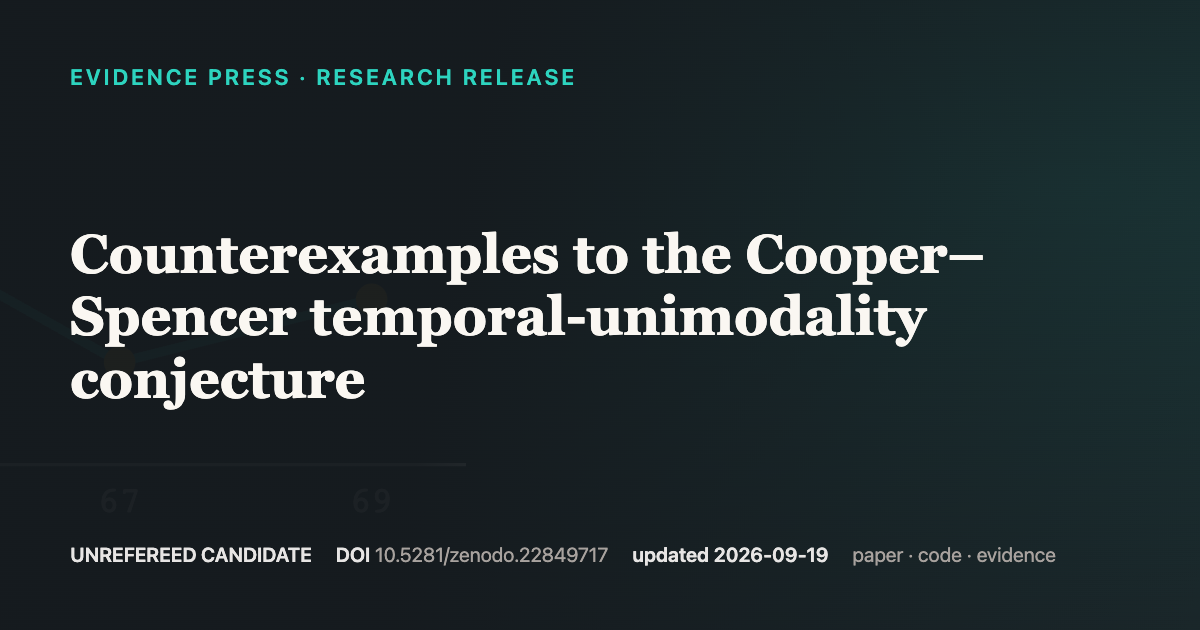
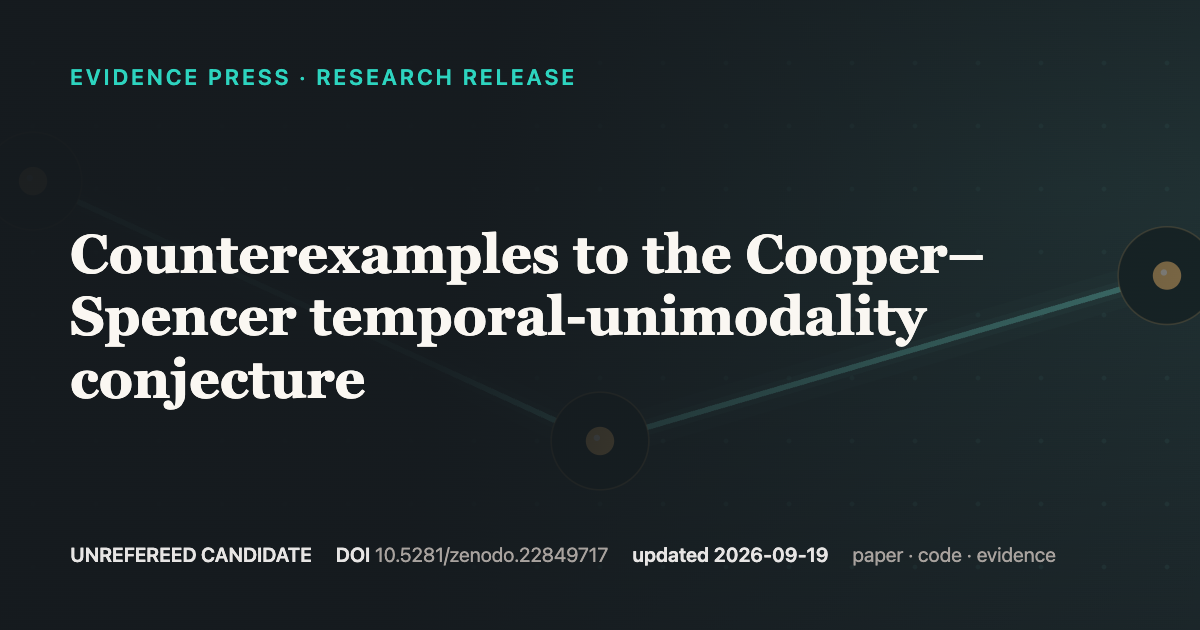
Restore image-led covers and require visual art direction

diff --git a/tools/art-direction.js b/tools/art-direction.js
@@ -1,0 +1,101 @@
+'use strict';
+// Image-led release covers. Coordinates are illustrative, not sampled data.
+// Keep the mathematical statement and assurance labels in HTML, not the banner.
+const circle = (x, y, r, c, opacity = 1) => `<circle cx="${x}" cy="${y}" r="${r}" fill="${c}" opacity="${opacity}"/>`;
+const path = (d, c, width = 2, opacity = 1) => `<path d="${d}" fill="none" stroke="${c}" stroke-width="${width}" opacity="${opacity}" stroke-linecap="round"/>`;
+const ink = '#f4efe6';
+const motifs = {
+  'cooper-spencer-temporal-unimodality': {
+    colors: ['#67c8bc', '#edbd70'],
+    description: 'Three highlighted observations form a fall followed by a rise. The surrounding lattice evokes the random walk; this is an enlarged schematic, not a probability plot.',
+    draw(a, b) {
+      let s = '';
+      for (let row = 0; row < 9; row++) for (let col = 0; col < 27; col++) {
+        const x = 80 + col * 40, y = 40 + row * 40;
+        s += circle(x, y, 1.5, a, .15);
+      }
+      // The three witness times are equally spaced; no intermediate data implied.
+      const d = 'M240 115 L600 280 L960 175';
+      s += path(d, a, 24, .045) + path(d, a, 10, .10) + path(d, a, 3.5);
+      for (const [x, y] of [[240, 115], [600, 280], [960, 175]]) {
+        s += `<circle cx="${x}" cy="${y}" r="31" fill="#172b2c" stroke="${b}" stroke-opacity=".35"/>`;
+        s += circle(x, y, 9, b) + circle(x - 2, y - 2, 2, ink, .9);
+      }
+      return s;
+    }
+  },
+  'quartic-inverse-coefficients': {
+    colors: ['#9eafff', '#e8b46f'],
+    description: 'Two colours of roots alternate along a shared line. Nested arcs distinguish the two ordered families. Root positions are schematic, not computed locations.',
+    draw(a, b) {
+      let s = path('M100 200 H1100', ink, 1, .2);
+      const xs = [180, 300, 420, 540, 660, 780, 900, 1020];
+      for (let i = 0; i < 6; i++) {
+        const up = i % 2 === 0, h = up ? 45 : 355;
+        s += path(`M${xs[i]} 200 C${xs[i]} ${h},${xs[i+2]} ${h},${xs[i+2]} 200`, up ? a : b, 2, .55);
+      }
+      xs.forEach((x, i) => {
+        const c = i % 2 ? b : a;
+        s += `<circle cx="${x}" cy="200" r="25" fill="${c}" opacity=".07"/>`;
+        s += circle(x, 200, 7, c) + path(`M${x} 181 V219`, c, 1.5, .8);
+      });
+      return s;
+    }
+  },
+  'sharp-bilagrangian-smoothness': {
+    colors: ['#76cabc', '#c0a0ed'],
+    description: 'Paired operator chains of increasing length evoke Jordan pencil blocks. This is a schematic of chain structure, not a rendering of a singular variety.',
+    draw(a, b) {
+      let s = '';
+      for (const [cx, n] of [[240, 1], [580, 3], [960, 5]]) {
+        for (let row = 0; row < 2; row++) {
+          const y = row ? 255 : 145, c = row ? b : a;
+          for (let i = 0; i < n; i++) {
+            const x = cx + (i - (n-1)/2) * 48;
+            if (i) s += path(`M${x-37} ${y} H${x-12}`, c, 2, .7);
+            s += circle(x, y, 21, c, .065) + circle(x, y, 6, c);
+            if (!row) s += path(`M${x} 159 V241`, ink, 1, .13);
+          }
+        }
+        s += path(`M${cx-35} 200 H${cx+35}`, ink, 1, .15);
+      }
+      return s;
+    }
+  },
+  'two-class-transposition-profiles': {
+    colors: ['#70bce6', '#ebb676'],
+    description: 'Two interleaved families of shuffle trajectories retain highlighted fixed positions. This is a two-class illustration, not a measured mixing trajectory or a complete permutation.',
+    draw(a, b) {
+      let s = '';
+      for (let i = 0; i < 12; i++) {
+        const x = 180 + i * 76, c = i % 2 ? b : a;
+        const target = 180 + ((i * 5) % 12) * 76;
+        s += path(`M${x} 90 C${x} 175,${target} 225,${target} 310`, c, 1.6, .36);
+        s += circle(x, 90, 5, c) + circle(target, 310, 5, c);
+      }
+      for (const [x,c] of [[180,a],[408,b]]) {
+        s += path(`M${x} 90 V310`, c, 3, .8);
+        s += `<circle cx="${x}" cy="90" r="15" fill="none" stroke="${c}" stroke-width="1.5"/>`;
+      }
+      return s;
+    }
+  },
+  'biased-transposition-profile-counterexample': {
+    colors: ['#bfabef', '#edb970'],
+    description: 'Two stationary positions stand out against a field of shuffled connections. The image evokes the two-label witness; it does not depict a numerical total-variation bound.',
+    draw(a, b) {
+      let s = '';
+      for(let i=0;i<18;i++) {
+        const x=130+i*55, tx=130+((i*7)%18)*55;
+        s+=path(`M${x} 95 C${x} 180,${tx} 220,${tx} 305`,a,1,.18);
+        s+=circle(x,95,3,a,.65)+circle(tx,305,3,a,.65);
+      }
+      for(const x of [460,735]) {
+        s+=path(`M${x} 95 V305`,b,14,.05)+path(`M${x} 95 V305`,b,3,.9);
+        for(const y of [95,305]) s+=`<circle cx="${x}" cy="${y}" r="23" fill="#242529" stroke="${b}" stroke-opacity=".5"/>`+circle(x,y,7,b);
+      }
+      return s;
+    }
+  }
+};
+module.exports = { motifs };

diff --git a/tests/article-corpus.spec.js b/tests/article-corpus.spec.js
@@ -62,7 +62,12 @@ for (const viewport of [
           if (bannerState.count !== 1 || bannerState.src !== article.banner.src) problems.push('missing or wrong banner');
           if (bannerState.alt !== article.banner.alt || bannerState.caption !== article.banner.caption) problems.push('banner descriptions changed');
           if (!bannerState.eager || !bannerState.loaded || !bannerState.beforeHeading) problems.push('banner loading or placement incorrect');
-          if (Math.abs(bannerState.ratio - (viewport.name === 'mobile' ? 16 / 9 : 3)) > 0.02) problems.push('banner aspect ratio incorrect');
+          if (viewport.name === 'desktop' && Math.abs(bannerState.ratio - 3) > 0.02) problems.push('banner aspect ratio incorrect');
+          if (viewport.name === 'mobile') {
+            const uncropped = await page.locator('.article-banner img').evaluate(image =>
+              Math.abs(image.getBoundingClientRect().width / image.getBoundingClientRect().height - image.naturalWidth / image.naturalHeight) < 0.02);
+            if (!uncropped) problems.push('mobile banner crops the source composition');
+          }
           if ([bannerState.ogImage, bannerState.twitterImage, bannerState.jsonldImage].some(url => url !== expectedImage)) problems.push('banner metadata image mismatch');
           if (bannerState.twitterCard !== 'summary_large_image') problems.push('banner missing large social card');
         } else if (bannerState.count || bannerState.ogImage || bannerState.twitterImage || bannerState.jsonldImage || bannerState.twitterCard !== 'summary') {

diff --git a/tools/test-art-direction.js b/tools/test-art-direction.js
@@ -1,0 +1,18 @@
+'use strict';
+const assert = require('node:assert/strict');
+const fs = require('node:fs');
+const path = require('node:path');
+const { motifs } = require('./art-direction');
+const root = path.join(__dirname, '..');
+for (const [slug, spec] of Object.entries(motifs)) {
+  assert.equal(spec.colors.length, 2);
+  assert.ok(spec.description.length > 40, `${slug}: describe the semantic boundary`);
+  const first = spec.draw(...spec.colors);
+  assert.equal(first, spec.draw(...spec.colors), `${slug}: must be deterministic`);
+  assert.ok(!/<text\b/.test(first), `${slug}: repaired banner must remain image-led`);
+  assert.ok(!/NaN|undefined/.test(first), `${slug}: invalid coordinates`);
+  const svg = fs.readFileSync(path.join(root, 'assets/art', `${slug}.svg`), 'utf8');
+  assert.ok(svg.includes(first), `${slug}: regenerate the committed cover`);
+  assert.ok(svg.includes(spec.description), `${slug}: missing accessible description`);
+}
+console.log(`Art direction: ${Object.keys(motifs).length} deterministic image-led covers checked; visual acceptance is separate.`);

diff --git a/tools/make-art.js b/tools/make-art.js
@@ -2083,8 +2083,22 @@ const palette = {
 };
 
 palette['biased-small-world-mixing'] = ['#2dd4bf', '#fbbf24'];
+// Reviewed image-led compositions supersede the historical slide-like covers.
+const { motifs } = require('./art-direction');
+for (const [slug, spec] of Object.entries(motifs)) {
+  art[slug] = spec.draw;
+  palette[slug] = spec.colors;
+}
+const requested = new Set(process.argv.slice(2));
+for (const slug of requested) {
+  if (!art[slug]) throw new Error(`Unknown art slug: ${slug}`);
+}
 for (const [slug, fn] of Object.entries(art)) {
+  if (requested.size && !requested.has(slug)) continue;
   const [a, b] = palette[slug];
-  fs.writeFileSync(path.join(OUT, slug + '.svg'), frame(fn(a, b), a, b));
+  let svg = frame(fn(a, b), a, b);
+  if (motifs[slug]) svg = svg.replace('role="img" aria-hidden="true"', 'role="img" aria-labelledby="art-description"')
+    .replace('<defs>', `<desc id="art-description">${motifs[slug].description}</desc><defs>`);
+  fs.writeFileSync(path.join(OUT, slug + '.svg'), svg);
   console.log('art:', slug);
 }

diff --git a/assets/style.css b/assets/style.css
@@ -304,7 +304,8 @@ td .inline-img { height: 1.9em; vertical-align: middle; }
   font-size: .82rem; line-height: 1.5; overflow-wrap: anywhere;
 }
 @media (max-width: 659px) {
-  .article-banner img { aspect-ratio: 16 / 9; }
+  /* Preserve the full composition; a forced taller crop discards both sides. */
+  .article-banner img { aspect-ratio: auto; height: auto; object-fit: contain; }
 }
 .article-boundary strong { font-family: var(--sans); color: var(--amber); }
 .article-audio { padding: 1rem 1.2rem; margin: 0 0 1.7rem; background: #edf7f5; border: 1px solid #b6d8d2; border-radius: 10px; }

diff --git a/docs/ART_DIRECTION.md b/docs/ART_DIRECTION.md
@@ -1,0 +1,60 @@
+# Evidence Press art direction
+
+## Three distinct jobs
+
+* **Banner:** one image-led, subject-specific composition. Do not duplicate the
+  page title, disclaimer or evidence inventory inside the image. Prefer no text;
+  a necessary symbol is acceptable. Put explanatory qualifications in accessible
+  descriptions or captions. A schematic is not numerical evidence.
+* **Explanatory figure:** teach one relationship with legible labels, units and
+  a caption. Show actual data only when computed from the declared source.
+* **Thumbnail/social card:** a short readable headline, calibrated status and a
+  recognisable visual. Do not promote a thumbnail into a page banner.
+
+## Positive references
+
+The original z20, affine-slice and Ramsey covers demonstrate image-led SVG art.
+The Navier–Stokes article illustrates editorial artwork, explicitly distinguished
+from simulation. The polynomial article illustrates exact plotted geometry.
+Choose the approach for the subject, not whichever release was last edited.
+
+## Authoring
+
+Use the existing deterministic tools for exact diagrams. Use editorial image
+generation when appropriate and available within the authorised budget; never
+invent mathematical data. No additional paid service is required.
+
+The new image-led compositions live in `tools/art-direction.js`; existing
+generators remain supported. Vary composition and accents within the brand:
+ordered objects, curves, networks, paired structures and trajectories are
+different visual grammars, not a mandatory left-diagram/right-text template.
+Keep fine detail secondary to a recognisable main form. Avoid needless panels,
+badges, pseudo-3D, glow and scientific decoration unrelated to the subject.
+
+Run `node tools/make-art.js <slug>` for only the changed covers, then regenerate
+their Open Graph cards. Preserve existing thumbnail headlines/status unless
+separately redesigning those assets. Never edit generated files alone.
+
+## Acceptance, before publication
+
+Inspect every changed image in the real page at desktop and 390px mobile width,
+and inspect its social-card output. Compare with a positive reference. Reject:
+
+1. text/graphic collisions, clipped labels or lost content after cropping;
+2. essential labels unreadable at actual display size;
+3. a banner dominated by repeated headline/disclaimer text;
+4. a stock motif or decorative chart implying unsupported measurements;
+5. an image whose purpose cannot be explained in one sentence.
+
+Record which images and viewports were inspected and any unresolved exception
+in the work receipt. Automated tests check geometry, loading and regeneration,
+not aesthetic quality; a green build cannot replace looking at the images.
+Do not introduce routine presentation notes into public scholarly corrections.
+
+## September 2026 repair boundary
+
+Five recent slide-like release covers were selected for the initial repair:
+Cooper–Spencer, quartic inverse coefficients, sharp bi-Lagrangian smoothness,
+two-class transposition profiles and the biased-transposition counterexample.
+This is not a claim that every historical image has been redesigned or approved.
+Articles now retain the full source banner composition on mobile.

diff --git a/docs/ART_REPAIR_2026-09-19.md b/docs/ART_REPAIR_2026-09-19.md
@@ -1,0 +1,36 @@
+# Graphics repair — 19 September 2026
+
+Scope: presentation only. Five latest release covers, corresponding social
+cards, mobile article-banner fit, and forward-looking art-direction guidance.
+No manuscript, DOI, audio, thumbnail, research metadata or assurance changes.
+
+## Visual acceptance
+
+All five slugs in `tools/art-direction.js` were inspected in the local release
+page at 1280px desktop and 390px mobile width. All five 1200x630 social cards
+were opened and inspected separately. No text collisions or clipped labels
+exist in the replacement covers (they intentionally contain no rendered text).
+The full-width composition remains visible on mobile; thin secondary links are
+decorative and the major nodes/structures remain distinguishable.
+
+The polynomial article was inspected at 390px to confirm that both sides of the
+banner survive. The changed article-corpus test compares rendered mobile ratio
+with intrinsic image ratio, rather than rewarding the previous centre crop.
+
+The shuffle-class highlight was corrected during inspection to match its colour
+class. Schematic descriptions explicitly avoid treating illustrative positions
+and connecting paths as numerical measurements or complete permutation data.
+
+## Prevention
+
+Repository AGENTS.md now routes graphics work to docs/ART_DIRECTION.md. The
+installed Evidence Press publication skill and authoring reference were updated
+with the same division between banners, figures and thumbnails and the explicit
+desktop/mobile visual acceptance requirement. CI checks deterministic generation
+of the five repaired covers. It does not certify aesthetic merit.
+
+## Limit
+
+This is an initial targeted repair, not a claim that all 77 historical release
+graphics have received a full design review. Existing positive examples and
+unrelated assets are unchanged. No paid image or design service was used.

diff --git a/AGENTS.md b/AGENTS.md
@@ -97,6 +97,9 @@ node tools/check-published.js
 ```
 
 Every release must have a reproducible 2560x1440 YouTube thumbnail below 2 MB.
+Before authoring or replacing graphics, read `docs/ART_DIRECTION.md`. Banners,
+explanatory figures and thumbnails serve different jobs. Inspect changed art at
+desktop and mobile display sizes; passing file/overflow tests is not visual approval.
 Generate it during authoring with `node tools/make-thumb.js <slug>`. Keep the
 committed copy under `thumbs/`, mirror the exact bytes to `/Users/admin/thumbs`
 on the maintainer Mac, and use the generator's deterministic background-palette
